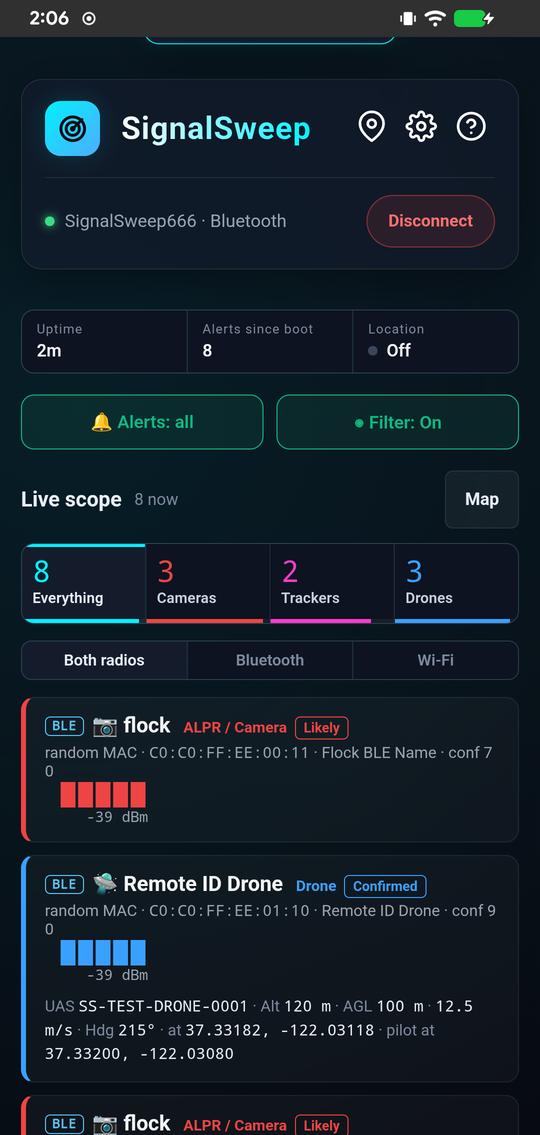
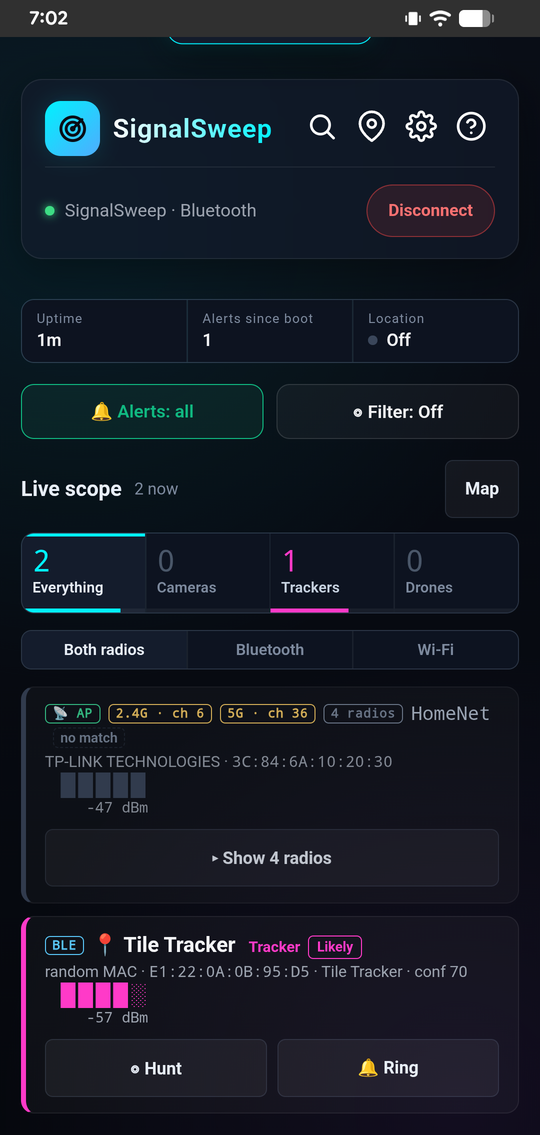
Release 0.4.0: band chips, one row per box, refreshed live-scope screenshot
The live-scope screenshot shows the new band/channel chips and a grouped router. The router rows are a local demo (HomeNet) so no real network names or MACs are published; the header, status strip and tracker row are the real C5 over Bluetooth.

diff --git a/README.md b/README.md
@@ -15,7 +15,7 @@ The phone app is optional. It shows what's here right now, then forgets it.
 | `live` | `hunt <mac>` | `map` |
 |---|---|---|
 | ![Live scope](docs/img/scope.png) | ![Foxhunt](docs/img/foxhunt.png) | ![Drone on the map](docs/img/map-drone.png) |
-| Live matches, strongest first. Cleared when you disconnect. | One target. The beeps speed up as you close in. Walk, don't watch the screen. | Full ASTM F3411 decode: aircraft position and operator position. |
+| Live matches, strongest first. Every Wi-Fi row shows its band and channel, and a router's radios fold into one row. Cleared when you disconnect. | One target. The beeps speed up as you close in. Walk, don't watch the screen. | Full ASTM F3411 decode: aircraft position and operator position. |
 
 ---
 

diff --git a/CHANGELOG.md b/CHANGELOG.md
@@ -4,6 +4,8 @@ All notable changes to SignalSweep are recorded here.
 
 ## [Unreleased]
 
+## [0.4.0] — 2026-09-16 — Every Wi-Fi row says where, and a router is one row
+
 ### Fixed — Hunting over the cable
 
 - **The hunt meter updates as fast on USB as on Bluetooth.** The 3-per-second
